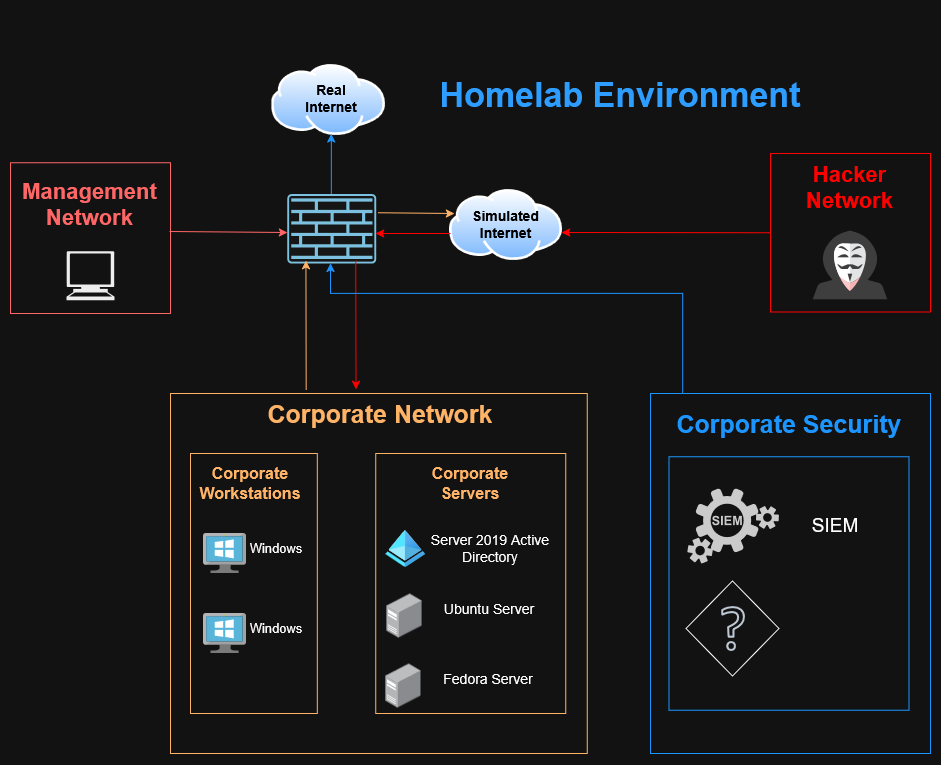
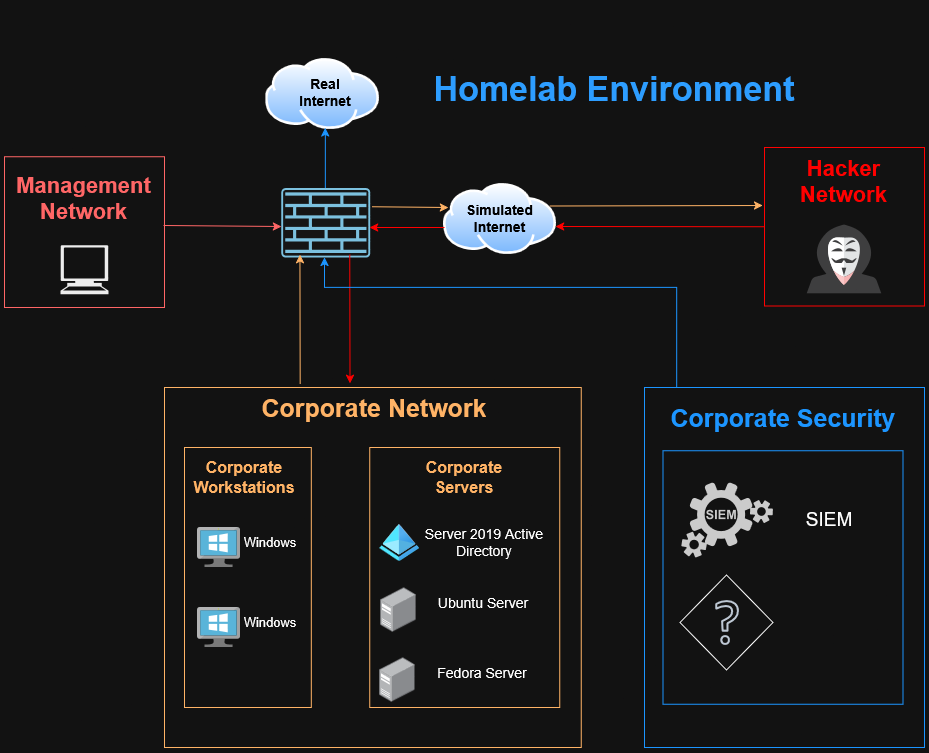
Add firewall section and fix various other things

diff --git a/firewall-setup/firewall.md b/firewall-setup/firewall.md
@@ -1,0 +1,100 @@
+# **Part 2: Firewall Setup**
+
+------
+
+## 🔹 pfSense
+
+pfSense will be our firewall of choice as it can easily be configured through a web interface, has plenty of features, and most importantly is free. To download the pfSense Community Edition image, visit this link: https://atxfiles.netgate.com/mirror/downloads/ and download <u>*pfSense-CE-2.7.2-RELEASE-amd64.iso.gz*</u> (This download link refers you directly to their mirror so that you don't have to make a Netgate account). Make sure to extract the archive using a tool like 7-zip if you are on Windows.
+
+1. We will now create our first VM of this project:
+
+* CPU: 1 Core
+* RAM: 1 GB
+* Storage: 20 GB
+
+* NICs:
+  * VMnet0 (*Bridged*)
+    * VMnet0 is our bridged connection and will be used as our outbound traffic interface (physical LAN interface). This allows traffic from inside our virtual LAN to be routed out to the internet.
+  * vmnet1
+  * vmnet10
+  * vmnet20
+  * vmnet30
+
+2. Once all of the hardware settings are setup, go ahead and power the VM on and accept the defaults for the installation. Once rebooted, this is what we see with two interfaces (LAN and WAN):
+
+   ![pfsense installation](https://github.com/alexh200/blue-team-homelab/blob/main/basic-setup/pfsense_install.PNG?raw=true)
+
+   
+
+   Lets now configure our WAN interface with the correct address. Depending on the environment you are in, pfSense might automatically be assigned an address on the WAN interface by a DHCP server. If not, you'll want to figure out what subnet that your ISP's modem or router hands out IPs on. In the picture above, I was automatically assigned an IP and will stick with that as I can access the internet (don't forget to check).
+
+3. We should now be able to access the pfSense admin panel by simply typing in the address of the firewall on our host machine. We are greeted with a sign in page and the default credentials are username: **admin**, password: **pfsense**. After logging in this is what you should see:
+
+   ![pfsense installation](https://github.com/alexh200/blue-team-homelab/blob/main/basic-setup/pfsense_welcome.PNG?raw=true)
+
+## 🔹 Configuration
+
+1. Lets first configure all of those interfaces that we created an added to the firewall. In the top menu bar go to *Interfaces -> Assignments*. We should then be under the Interface Assignments. From here click the green *Add* button until all of the interfaces have been added and click *Save*.
+
+2. Now lets go through and configure all of these interfaces by clicking *Interfaces* and editing each interface to its proper settings. Here are some global settings:
+
+   * **Enabled**: Yes
+   * **Description**: NETWORK_NAME_VLAN
+   * **IPv4 Configuration Type**: Static IPv4
+   * **IPv6 Configuration Type**: None
+   * **IPv4 Address**: IP_ADDRESS/24
+   * **Block private networks and loopback address**: Unchecked (only check this for WAN interface)
+   * **Block bogon networks**: Unchecked (only check this for WAN interface)
+
+   As a quick note, if you change the Management Interface IP to something other than the Virtual Network Adapters subnet, you will no longer have connection to the web configurator with the default firewall rules.
+   
+   | Interface                             | IP Address               |
+   | ------------------------------------- | ------------------------ |
+   | WAN                                   | 192.168.1.x/24 (Or DHCP) |
+   | MANAGEMENT                            | 10.0.1.50/24             |
+   | CORPORATE_LAN_VLAN10                  | 10.0.10.254/24           |
+   | CORPORATE_SECURITY_VLAN20             | 10.0.20.254/24           |
+   | CORPORATE_WAN_VLAN30 (Hacker Network) | 10.0.30.254/24           |
+
+![pfsense interfaces](https://github.com/alexh200/blue-team-homelab/blob/main/basic-setup/pfsense_interfaces.PNG?raw=true)
+
+![pfsense interfaces](https://github.com/alexh200/blue-team-homelab/blob/main/basic-setup/pfsense_interfaces_2.PNG?raw=true)
+
+3. We should also go through the general setup (*System -> General Setup*) to configure our hostname and a couple of other things:
+   * **Hostname**: Change to whatever you like (I used firewall).
+   * **Domain**: Change to whatever you like (I used aholm.homelab).
+   * **DNS Servers**: 1.1.1.1 and 8.8.8.8 (Cloudflare and Google)
+   * **Timezone**: Select your region
+
+4. Time to get some firewall rules up and running so that our networks are isolated from one another (*Firewall -> Rules*):
+
+   * **WAN Interface**:
+
+     ![pfsense wan_interface](https://github.com/alexh200/blue-team-homelab/blob/main/basic-setup/wan_interface.PNG?raw=true)
+
+     We are allowing all traffic for now but may edit this later
+
+   * **MANAGEMENT Interface**:
+
+     ![pfsense management_interface](https://github.com/alexh200/blue-team-homelab/blob/main/basic-setup/management_interface.PNG?raw=true)
+
+     We currently only have one host in the management VLAN so we can keep the rules default. Ideally only one specific IP or host would be allowed to configure something like a firewall. I have disabled the IPv6 rule.
+
+   * **CORPORATE WAN**:
+   
+     ![pfsense management_interface](https://github.com/alexh200/blue-team-homelab/blob/main/basic-setup/corporate_wan_firewall.PNG?raw=true)
+   
+     For the corporate WAN, we are allowing any traffic in and allowing traffic to be sent to any Corporate Network address. We will have a deny all rule at the bottom to reject any other traffic. By default there is a default deny all rule that is invisible, but we will add that rule just to be safe.
+   
+   * **CORPORATE SECURITY**:
+   
+     ![pfsense management_interface](https://github.com/alexh200/blue-team-homelab/blob/main/basic-setup/corporate_security_firewall.PNG?raw=true)
+   
+     The Corporate Security should only have access to the Internet and the Corporate LAN.
+   
+   * **CORPORATE LAN**:
+   
+     ![pfsense management_interface](https://github.com/alexh200/blue-team-homelab/blob/main/basic-setup/corporate_lan_firewall.PNG?raw=true)
+   
+     For the Corporate LAN, we want traffic to and from the fake internet to simulate attacks.
+

diff --git a/basic-setup/setup.md b/basic-setup/setup.md
@@ -30,15 +30,15 @@ Lastly for this section we will be following this topology:
 
 ![topology map](https://github.com/alexh200/blue-team-homelab/blob/main/basic-setup/topology.png?raw=true)
 
-**Corporate Network** (<u>VLAN 1</u>) - This represents the LAN for a corporate network and only has access to the simulated internet. User workstations and company servers run here.
+**Management Network** (<u>VLAN 1</u>) - This will be used to configure critical security infrastructure.
 
-**Corporate Security** (<u>VLAN 1</u>0) - This represents a security team working at the organization to retrieve logs. Notice that the security network has access to the corporate network but not the other way around. We will allow this network to have access to the actual internet for various things.
+**Corporate Network** (<u>VLAN 1</u>0) - This represents the LAN for a corporate network and only has access to the simulated internet. User workstations and company servers run here.
 
-**Hacker Network** (<u>VLAN 20</u>) - This represents bad actors from the internet trying to breach and gain access to the corporate network.
+**Corporate Security** (<u>VLAN 20</u>) - This represents a security team working at the organization to retrieve logs. Notice that the security network has access to the corporate network but not the other way around. We will allow this network to have access to the actual internet for various things.
 
-**Management Network** (<u>VLAN 30</u>) - This will be used to configure critical security infrastructure.
+**Hacker Network** (<u>VLAN 30</u>) - This represents bad actors from the internet trying to breach and gain access to the corporate network.
 
-Shoutout to @facyber for the inspiration on the topology! (https://facyber.me/posts/blue-team-lab-guide-part-1/)
+Shoutout to <u>@facyber</u> for the inspiration on the topology! (https://facyber.me/posts/blue-team-lab-guide-part-1/)
 
 To create these VLANs in our virtual network, we will be creating networks within VMware workstation (or whatever hypervisor you are using). To do this in VMware:
 

diff --git a/README.md b/README.md
@@ -31,7 +31,8 @@ By **building, configuring, and securing** a fully networked environment, this l
 
 ## 🚀 **Sections**
 
-1. [**Basic Setup**](https://github.com/alexh200/blue-team-homelab/tree/main/basic-setup/basic_setup.md)
+1. [**Basic Setup**](https://github.com/alexh200/blue-team-homelab/tree/main/basic-setup/setup.md)
+1. [**Firewall Setup**](https://github.com/alexh200/blue-team-homelab/tree/main/firewall-setup/firewall.md)
 
 ------
 
